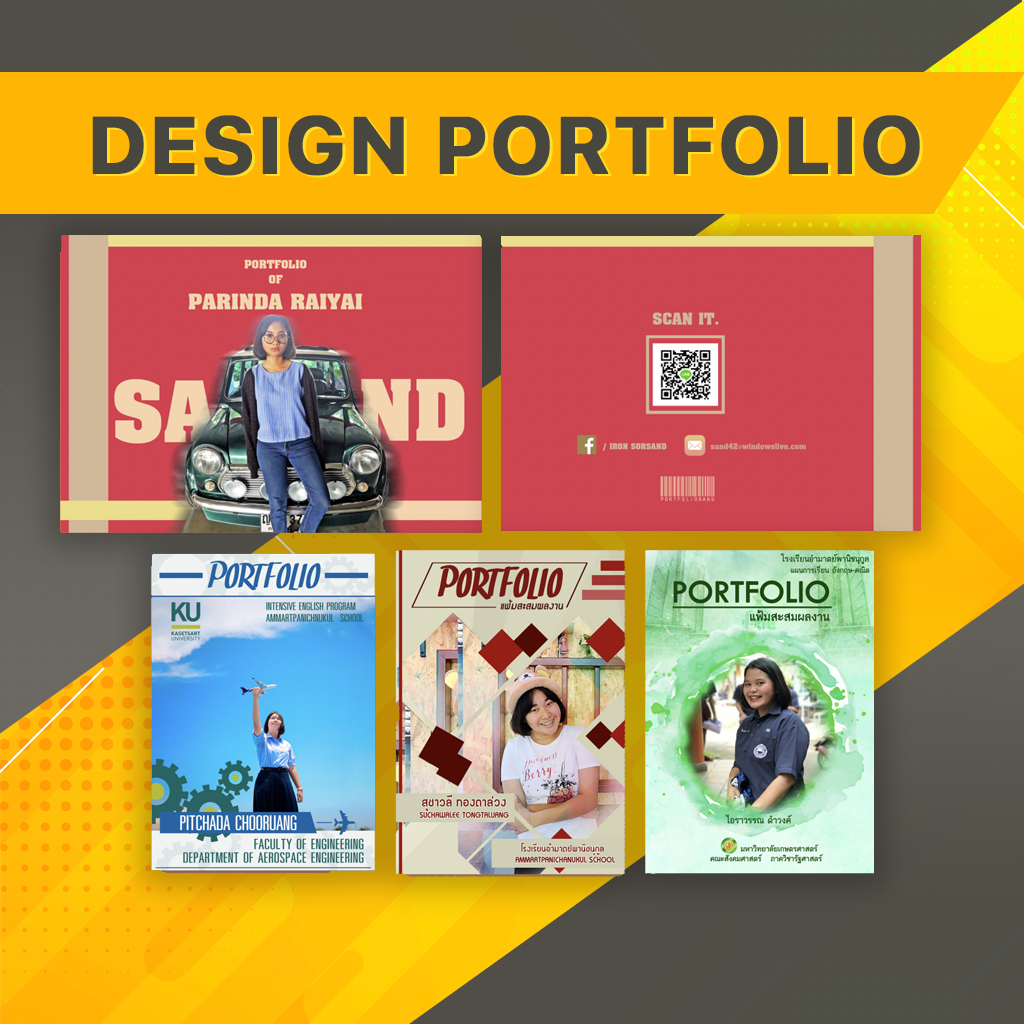
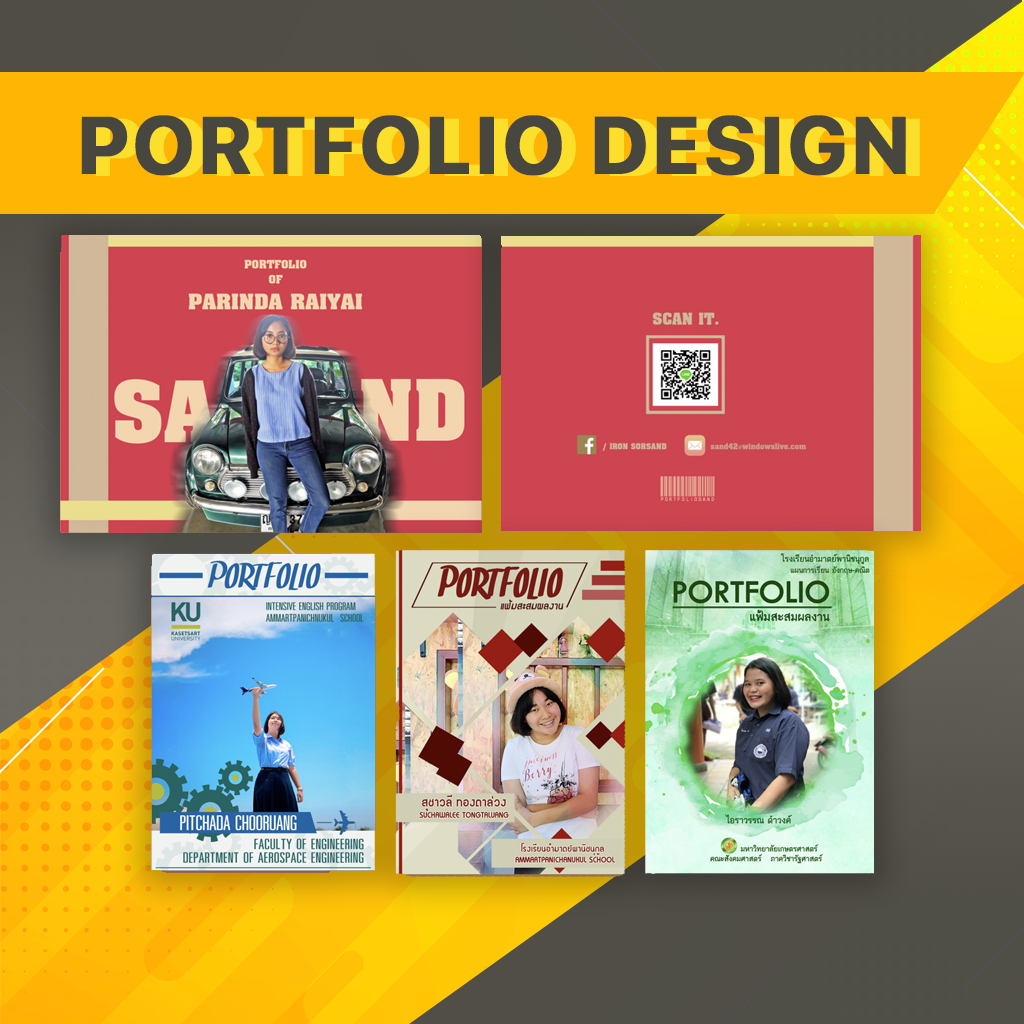
Add homepage

Changed region(s): [[0.0625, 0.0938, 0.9062, 0.1875]]

diff --git a/portfolio.html b/portfolio.html
@@ -101,12 +101,12 @@ https://templatemo.com/tm-565-onix-digital
       <div class="row">
         <div class="col-lg-6 align-self-top">
           <div class="left-image">
-            <img src="assets/images/work4.png" style="border-radius: 10px; width: 80%;">
+            <img src="assets/images/work5.png" style="border-radius: 10px; width: 80%;">
           </div>
         </div>
         <div class="col-lg-6">
           <div class="section-heading">
-            <h2><span>Portfolio</span> <em>Design</em></h2>
+            <h2><span>PORTFOLIO</span> <em>DESIGN</em></h2>
             <p class="mt-4">IT3K is a sports event of 3 King Mongkut's institution also known as 3K, It is a sports competition of 3K IT students which will be held every year. , 3K is 3 universities which are King Mongkut's University of Technology Thonburi (KMUTT) , King Mongkut's University of Technology North Bangkok (KMUTNB) , King Mongkut's Institute of Technology Ladkrabang (KMITL)</p>            </div>
           </div>
         </div>

diff --git a/index.html b/index.html
@@ -55,7 +55,7 @@ https://templatemo.com/tm-565-onix-digital
           <nav class="main-nav">
             <!-- ***** Logo Start ***** -->
             <a href="index.html" class="logo">
-              <img src="assets/images/logo.png" width="94" height="44">
+              <img src="assets/images/logo.png" style="width:45px">
             </a>
             <!-- ***** Logo End ***** -->
             <!-- ***** Menu Start ***** -->
